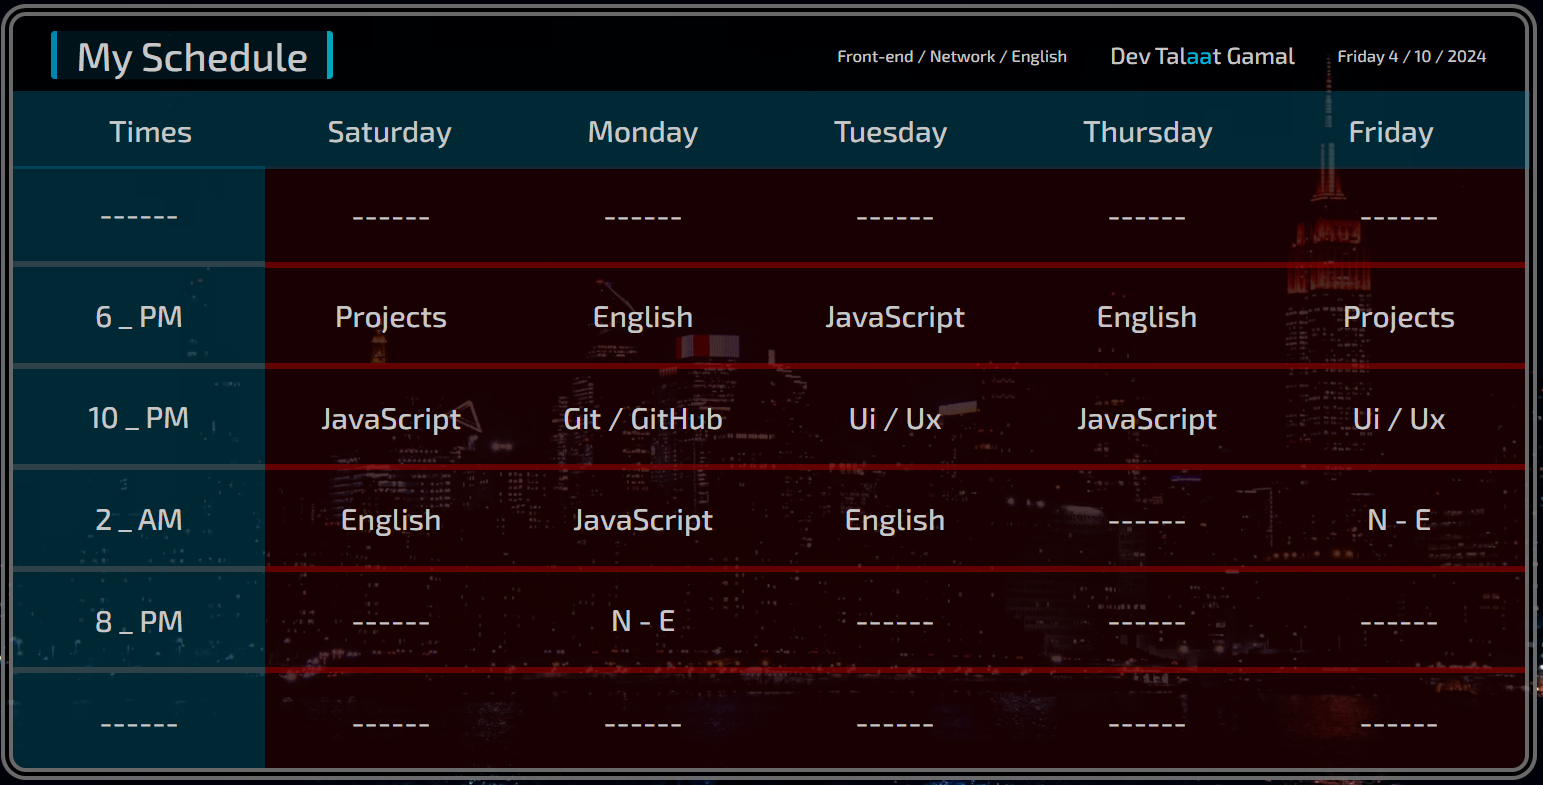
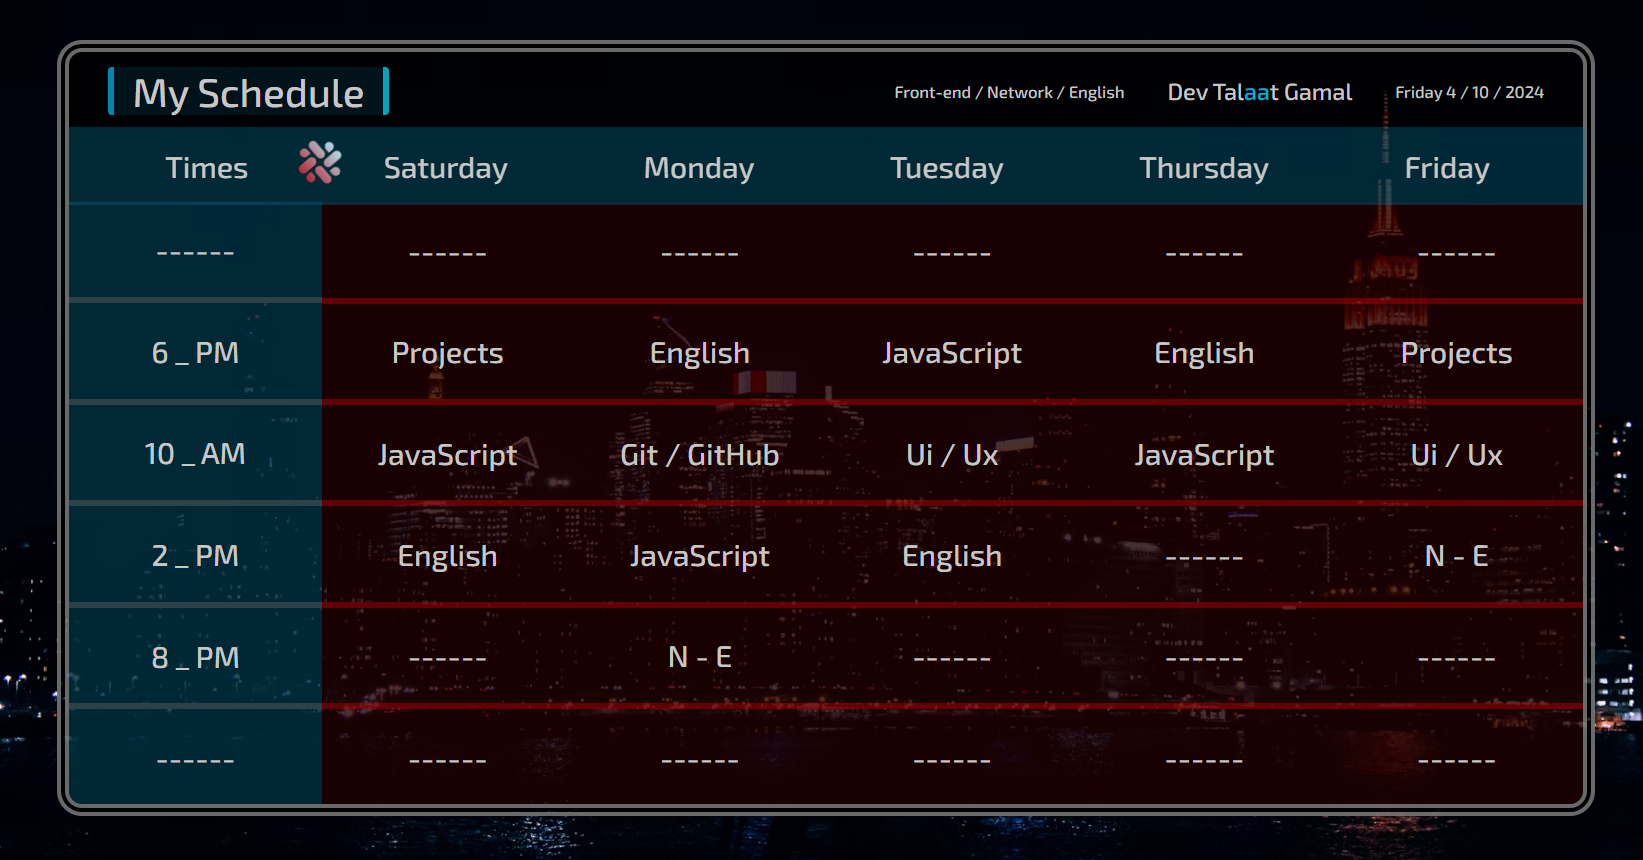
first commit

diff --git a/style.css b/style.css
@@ -25,7 +25,7 @@ body{
 .schedule{
     background-color: rgba(0, 0, 0, 0.77);
     border: rgba(178, 178, 178, 0.59) double 10px;
-    width: 80%;
+    width: 1230px;
     height: 80%;
     border-radius: 20px;
     overflow: hidden;
@@ -118,6 +118,58 @@ body{
 .main-page img{
     display: none;
 }
+#i-1{
+    background: linear-gradient(to right, rgb(255, 0, 0), white);
+    -webkit-background-clip: text;
+    color: transparent;
+    font-size: 40px;
+    animation: rotation 15s infinite linear;
+    position: absolute;
+    top: 20vh;
+    left: 22.5vw;
+    /* opacity: 50%; */
+}
+    @keyframes rotation {
+        from {
+        transform: rotate(0deg);
+        }
+        to {
+        transform: rotate(360deg);
+        }
+    }
+#i-3{
+    background: linear-gradient(to right, rgb(255, 0, 0), white);
+    -webkit-background-clip: text;
+    color: transparent;
+    font-size: 40px;
+    animation: rotation 5s infinite linear;
+    position: absolute;
+    top: 40vh;
+    left: 22.5vw;
+    /* opacity: 50%; */
+}
+#i-4{
+    background: linear-gradient(to right, rgb(255, 0, 0), white);
+    -webkit-background-clip: text;
+    color: transparent;
+    font-size: 40px;
+    animation: rotation 5s infinite linear;
+    position: absolute;
+    top: 50vh;
+    left: 22.5vw;
+    /* opacity: 50%; */
+}
+#i-5{
+    background: linear-gradient(to right, rgb(255, 0, 0), white);
+    -webkit-background-clip: text;
+    color: transparent;
+    font-size: 40px;
+    animation: rotation 5s infinite linear;
+    position: absolute;
+    top: 60vh;
+    left: 22.5vw;
+    /* opacity: 50%; */
+}
 @media( max-width: 720px ){
     /* .main-page{
         width: 400vw;
@@ -127,12 +179,24 @@ body{
         padding-left: 20vw;
         padding-right: 20vw;
     } */
+    body{
+        /* background-image: url(https://images.unsplash.com/photo-1713782152266-c059f581ac92?q=80&w=2070&auto=format&fit=crop&ixlib=rb-4.0.3&ixid=M3wxMjA3fDB8MHxwaG90by1wYWdlfHx8fGVufDB8fHx8fA%3D%3D); */
+        background-image: url(https://images.pexels.com/photos/414837/pexels-photo-414837.jpeg?auto=compress&cs=tinysrgb&w=1260&h=750&dpr=1);
+        background-position: -200px;
+        background-size: cover;
+        background-attachment: fixed;
+        color: #c7c7c7;
+    }
      .schedule{
         display: none;
      }
+     .main-page{
+        padding-top: 150vh;
+     }
      .main-page img{
         display: block;
-        width: 170vw;
+        width: 195vw;
         transform: rotate(90deg);
+        margin-bottom: 100vh;
      }
 }

diff --git a/index.html b/index.html
@@ -8,10 +8,16 @@
     <link rel="preconnect" href="https://fonts.googleapis.com">
     <link rel="preconnect" href="https://fonts.gstatic.com" crossorigin>
     <link href="https://fonts.googleapis.com/css2?family=Exo+2:ital,wght@0,100..900;1,100..900&display=swap" rel="stylesheet">
+    <link rel="stylesheet" href="https://cdnjs.cloudflare.com/ajax/libs/font-awesome/6.0.0-beta3/css/all.min.css">
+
 </head>
 <body>
     <div class="main-page">
-        <div class="schedule">
+        <div class="schedule">    
+            <i class="fa-brands fa-slack" id="i-1"></i>
+            <!-- <i class="fa-brands fa-slack" id="i-3"></i>
+            <i class="fa-brands fa-slack" id="i-4"></i>
+            <i class="fa-brands fa-slack" id="i-5"></i> -->
             <div class="title">
                 <h1>My Schedule</h1>
                 <h1></h1>
@@ -36,8 +42,8 @@
                 <div class="times">
                     <h2>------</h2>
                     <h2>6 _ PM</h2>
-                    <h2>10 _ PM</h2>
-                    <h2>2 _ AM</h2>
+                    <h2>10 _ AM</h2>
+                    <h2>2 _ PM</h2>
                     <h2>8 _ PM</h2>
                     <h2>------</h2>
                 </div>
